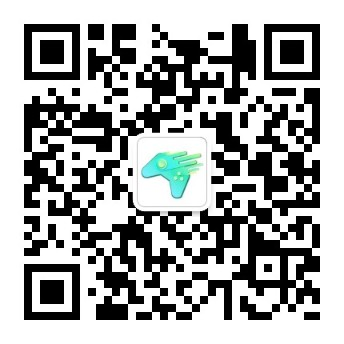
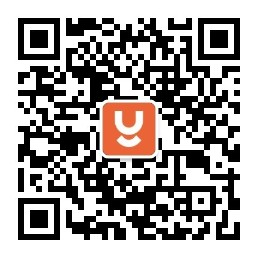
官网增加渠道下载

diff --git a/index.html b/index.html
@@ -63,15 +63,15 @@
     <div class="youmu-app1" id="index">
         <div class="app1"></div>
         <div class="app1_content">
-            <h2>游募软件Android端 V1.0全新上线，欢迎体验！</h2>
+            <h2>游募2.0全新上线，欢迎体验！</h2>
             <p class="app1_content_prompt">找代练，安全放心；来接单，技能变现</p>
             <button class="dowload-topapp">
-                <span>下载游募软件Android端 V1.0APP</span><br/>
+                <span>下载游募2.0APP</span><br/>
                 （通过APP发单、抢单）
                 <p class="dowload-topapp_qrcode"></p>
             </button>
             <button class="dowload-topapp dowloadPC">
-                <span>下载游募软件Android端 V1.0PC端</span><br/>
+                <span>下载游募2.0PC端</span><br/>
                 （代练通过PC端执行订单）
             </button>
             <p class="app1_content_ios">测试阶段，IOS用户需要添加信任才能正常使用，<a href="https://weibo.com/ttarticle/p/show?id=2309404333804473947034#_0">点击查看详情</a></p>
@@ -122,7 +122,7 @@
             <h4 class="youmu-modal_title">旧版游募APP和PC下载</h4>
             <div class="youmu-modal_close" id="closemodal"></div>
             <ul class="youmu-modal_list">
-                <li class="youmu-modal_app"><span class="youmu-modal_app_span"></span>APP下载</li>
+                <li class="youmu-modal_app"><span class="youmu-modal_app_span"></span><span class="youmu-modal_app_span" id="channelApp"></span>APP下载</li>
                 <li class="youmu-modal_pc">PC端下载</li>
             </ul>
         </div>

diff --git a/js/index.js b/js/index.js
@@ -17,6 +17,29 @@ $(function () {
     } else {
         console.log('PC端')
     }
+
+   function getQueryString (variable) {
+        let query = window.location.search.substring(1);
+       let vars = query.split("&");
+        for (let i = 0; i < vars.length; i++) {
+            let pair = vars[i].split("=");
+            if (pair[0] == variable) {
+                return decodeURIComponent(pair[1]);
+            }
+        }
+        return (null);
+    }
+
+    // 渠道用户判断
+    let campaign_id = getQueryString('campaign_id');
+    console.log(campaign_id)
+    if(campaign_id){
+        if(campaign_id=='2866087592'){
+            $('.dowload-topapp').addClass('dowload-topapp_2866087592')
+            $('.youmu-aside-list_app').addClass('youmu-aside-list_2866087592')
+        }
+    }
+
     console.log(current)
     if(browserRedirect() && current>=1000){
         document.getElementById('youmuBox').style.zoom =current/1920;

diff --git a/css/index.css b/css/index.css
@@ -117,10 +117,17 @@
 .youmu-aside-list_app{
     background-image: url("../image/app.png");
 }
-.youmu-aside-list_app:hover p{
+.youmu-aside-list_app p{
     background-image: url("../image/youmu_dowload.png");
+}
+
+.youmu-aside-list_2866087592 p{
+    background-image: url("../image/2866087592.png");
+}
+.youmu-aside-list_app:hover p{
     display: block;
 }
+
 .youmu-aside-list_pc{
     background-image: url("../image/pc.png");
 }
@@ -196,9 +203,13 @@
     margin-left: -70px;
     display: none;
 }
+.dowload-topapp_2866087592 p{
+    background-image: url("../image/2866087592.png");
+}
 .dowload-topapp:hover p{
     display: block;
 }
+
 .dowload-topapp span{
     margin-bottom: 8px;
     font-size: 24px;
